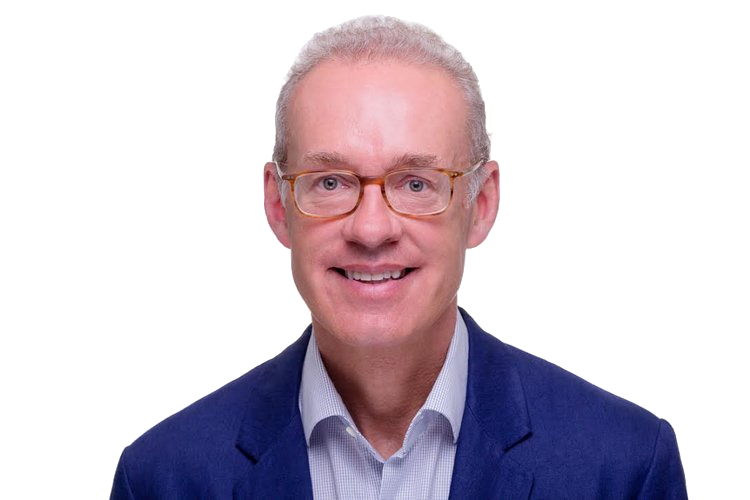
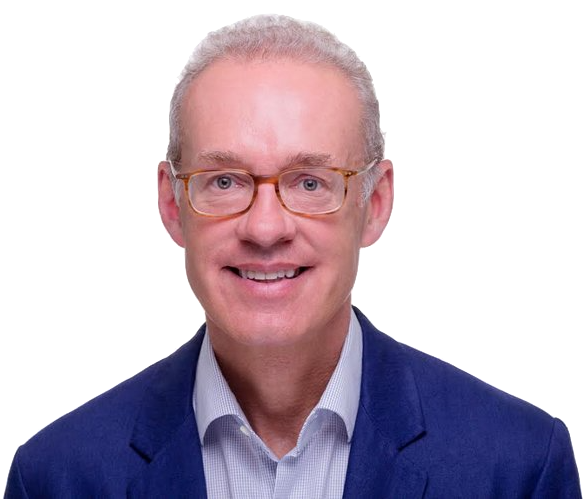
people

diff --git a/src/components/Profile.js b/src/components/Profile.js
@@ -4,11 +4,9 @@ import { Linkedin } from "react-feather";
 
 const Profile = props => {
   return (
-    <div className={`mb6 measure-narrow center`}>
-      <a className={`link`} href={props.linkedin}>
-        <div
-          className={`relative dt w-100 ba br4 b--light-gray pa4 lh-copy grow pointer`}
-        >
+    <div className={`mb6 center`}>
+      <a className={`link`} href={props.LinkedIn}>
+        <div className={`dt ba br4 b--light-gray pa4 lh-copy grow pointer`}>
           <div className={`dt-row`}>
             <img
               src={
@@ -17,6 +15,8 @@ const Profile = props => {
                   : props.pic
               }
               alt={props.name}
+              width={300}
+              className={`br4 pa2`}
             />
           </div>
           <div className={`dt-row`}>
@@ -27,11 +27,11 @@ const Profile = props => {
               <div className={`dtc f4 fw4 f4 gray v-mid pr2`}>
                 {props.title}
               </div>
-              <div
-                className={`pl2 dtc f5 fw5 light-blue v-mid bl b--light-blue`}
-              >
-                <span className={``}>{`founder`}</span>
-              </div>
+              {props.founder == "true" && (
+                <div className={`pl2 dtc f5 fw5 accent v-mid bl b--accent`}>
+                  <span className={``}>{`founder`}</span>
+                </div>
+              )}
             </div>
           </div>
         </div>

diff --git a/src/templates/people-page.js b/src/templates/people-page.js
@@ -8,7 +8,7 @@ export const PeoplePageTemplate = ({ people }) => {
     <div className={`center`}>
       <div className={`w-100 db mw7 pt4 center`}>
         {people.map(person => (
-          <div key={person.name} className={`dib w-100 w-50-l`}>
+          <div key={person.name} className={`dib w-100 center`}>
             <Profile {...person} />
           </div>
         ))}
@@ -35,9 +35,10 @@ export const peoplePageQuery = graphql`
       frontmatter {
         people {
           name
-          linkedin
+          LinkedIn
           description
           title
+          founder
           pic {
             childImageSharp {
               fluid(maxWidth: 500, quality: 100) {

diff --git a/src/pages/people/index.md b/src/pages/people/index.md
@@ -16,7 +16,8 @@ people:
     name: Kevin Ryan
     pic: /img/kevin-ryan.png
     title: Partner
-  - LinkedIn: 'https://www.linkedin.com/in/dmerr'
+    founder: true
+  - LinkedIn: "https://www.linkedin.com/in/dmerr"
     description: >-
       Dwight Merriman is the co-founder of AlleyCorp and one of the original
       authors of MongoDB, the open-source document database. In 1995, he
@@ -28,7 +29,8 @@ people:
     name: Dwight Merriman
     pic: /img/dwight-merriman.png
     title: Advisor
-  - LinkedIn: 'https://www.linkedin.com/in/wendytsu/'
+    founder: true
+  - LinkedIn: "https://www.linkedin.com/in/wendytsu/"
     description: >-
       Wendy is responsible for diligencing new seed-investment opportunities and
       leading AlleyCorp's incubation methodology for new ventures. Prior to
@@ -38,11 +40,12 @@ people:
       product manager at PayPal. She graduated with honors in Business
       Administration from the University of California, Berkeley.  She currently
       serves on the Smithsonian Bird Friendly Committee and is the Co-Chair of
-      GSB's NYC Alumni Ambassador Program. 
+      GSB's NYC Alumni Ambassador Program.
     name: Wendy Tsu
     pic: /img/wendy-tsu.png
-    title: Partner of New Business Ventures
-  - LinkedIn: 'https://www.linkedin.com/in/alison-hill-316a7329'
+    title: New Business Ventures Partner
+    founder: false
+  - LinkedIn: "https://www.linkedin.com/in/alison-hill-316a7329"
     description: >-
       Alison Hill is a top-level Executive/Personal Assistant with more than
       twenty years experience supporting some of New York’s most prestigious
@@ -56,5 +59,5 @@ people:
     name: Alison Hill
     pic: /img/alison-hill.png
     title: Chief of Stuff
+    founder: false
 ---
-
